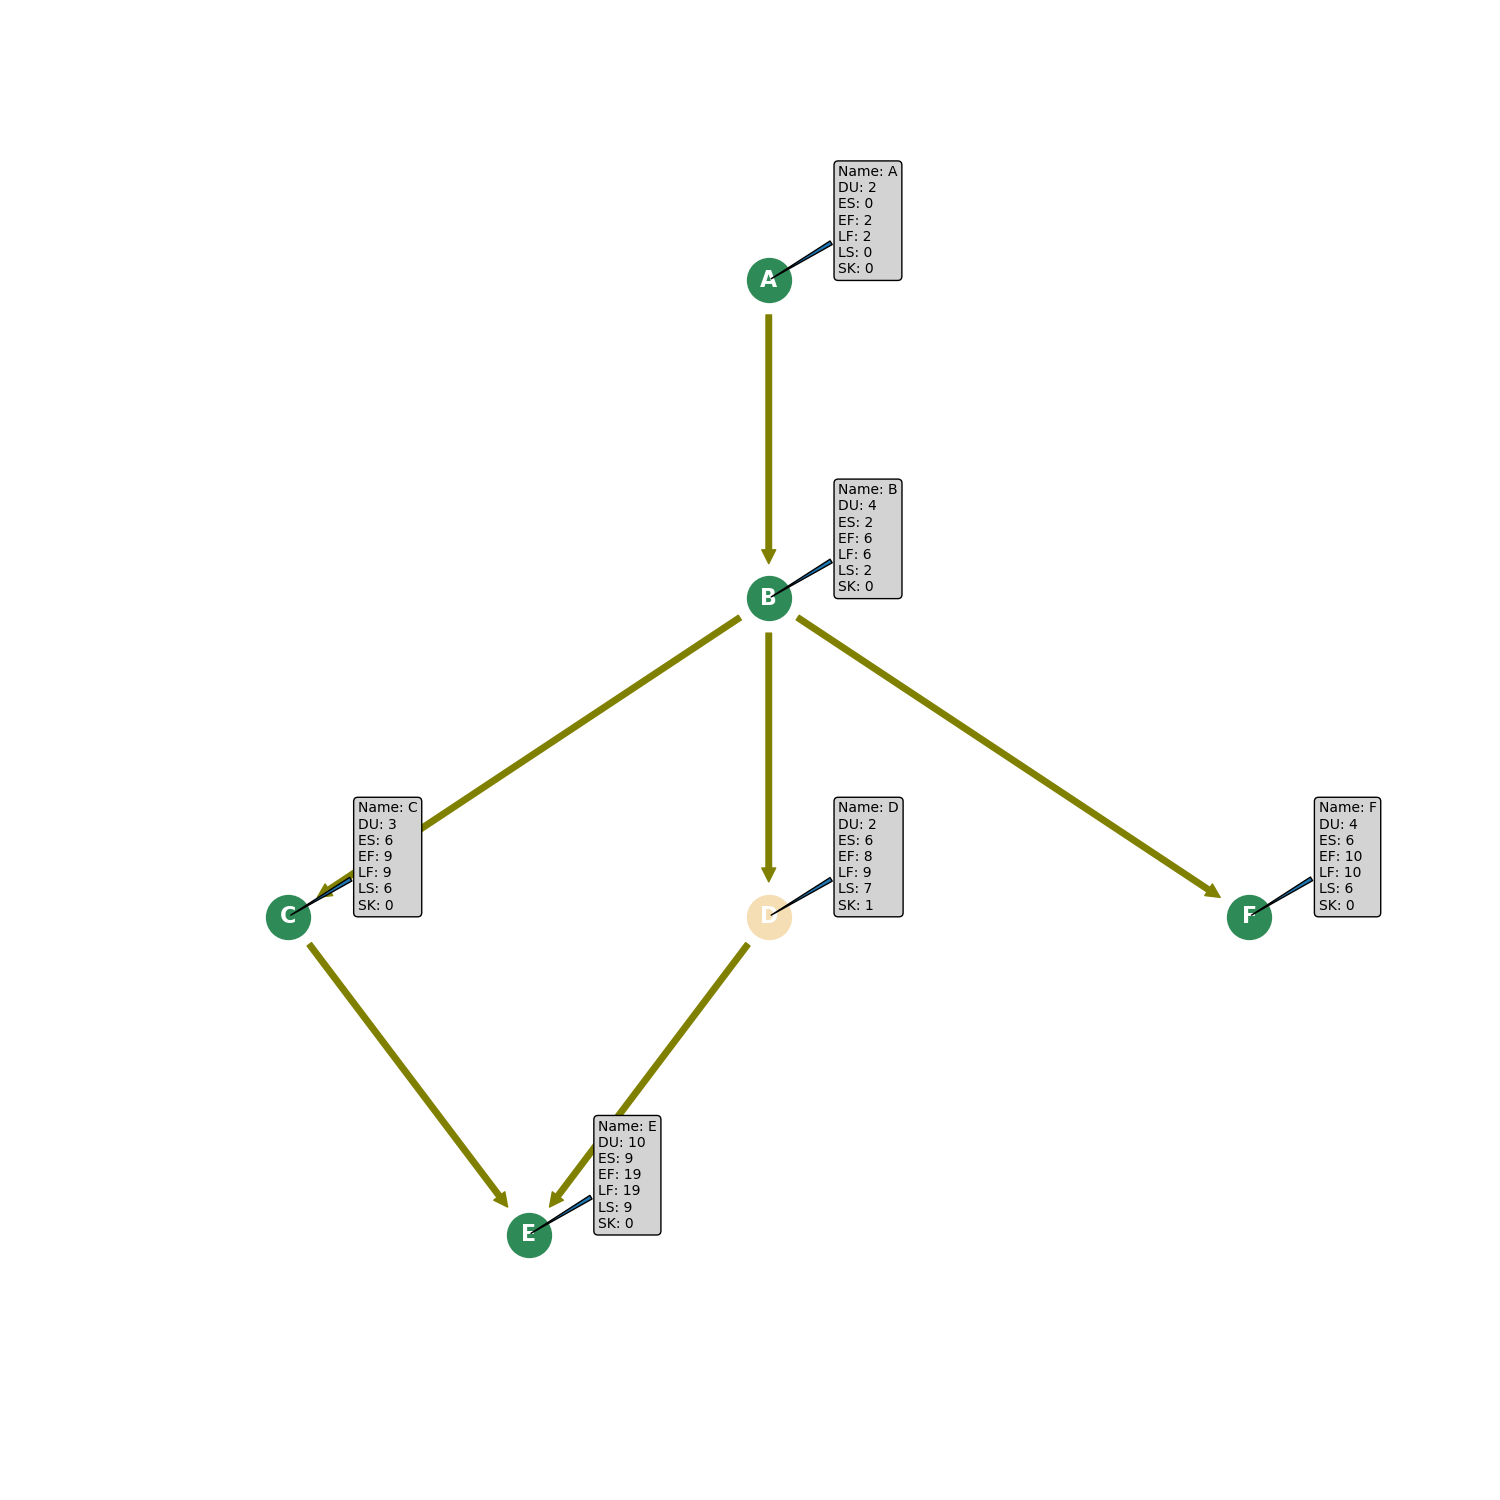
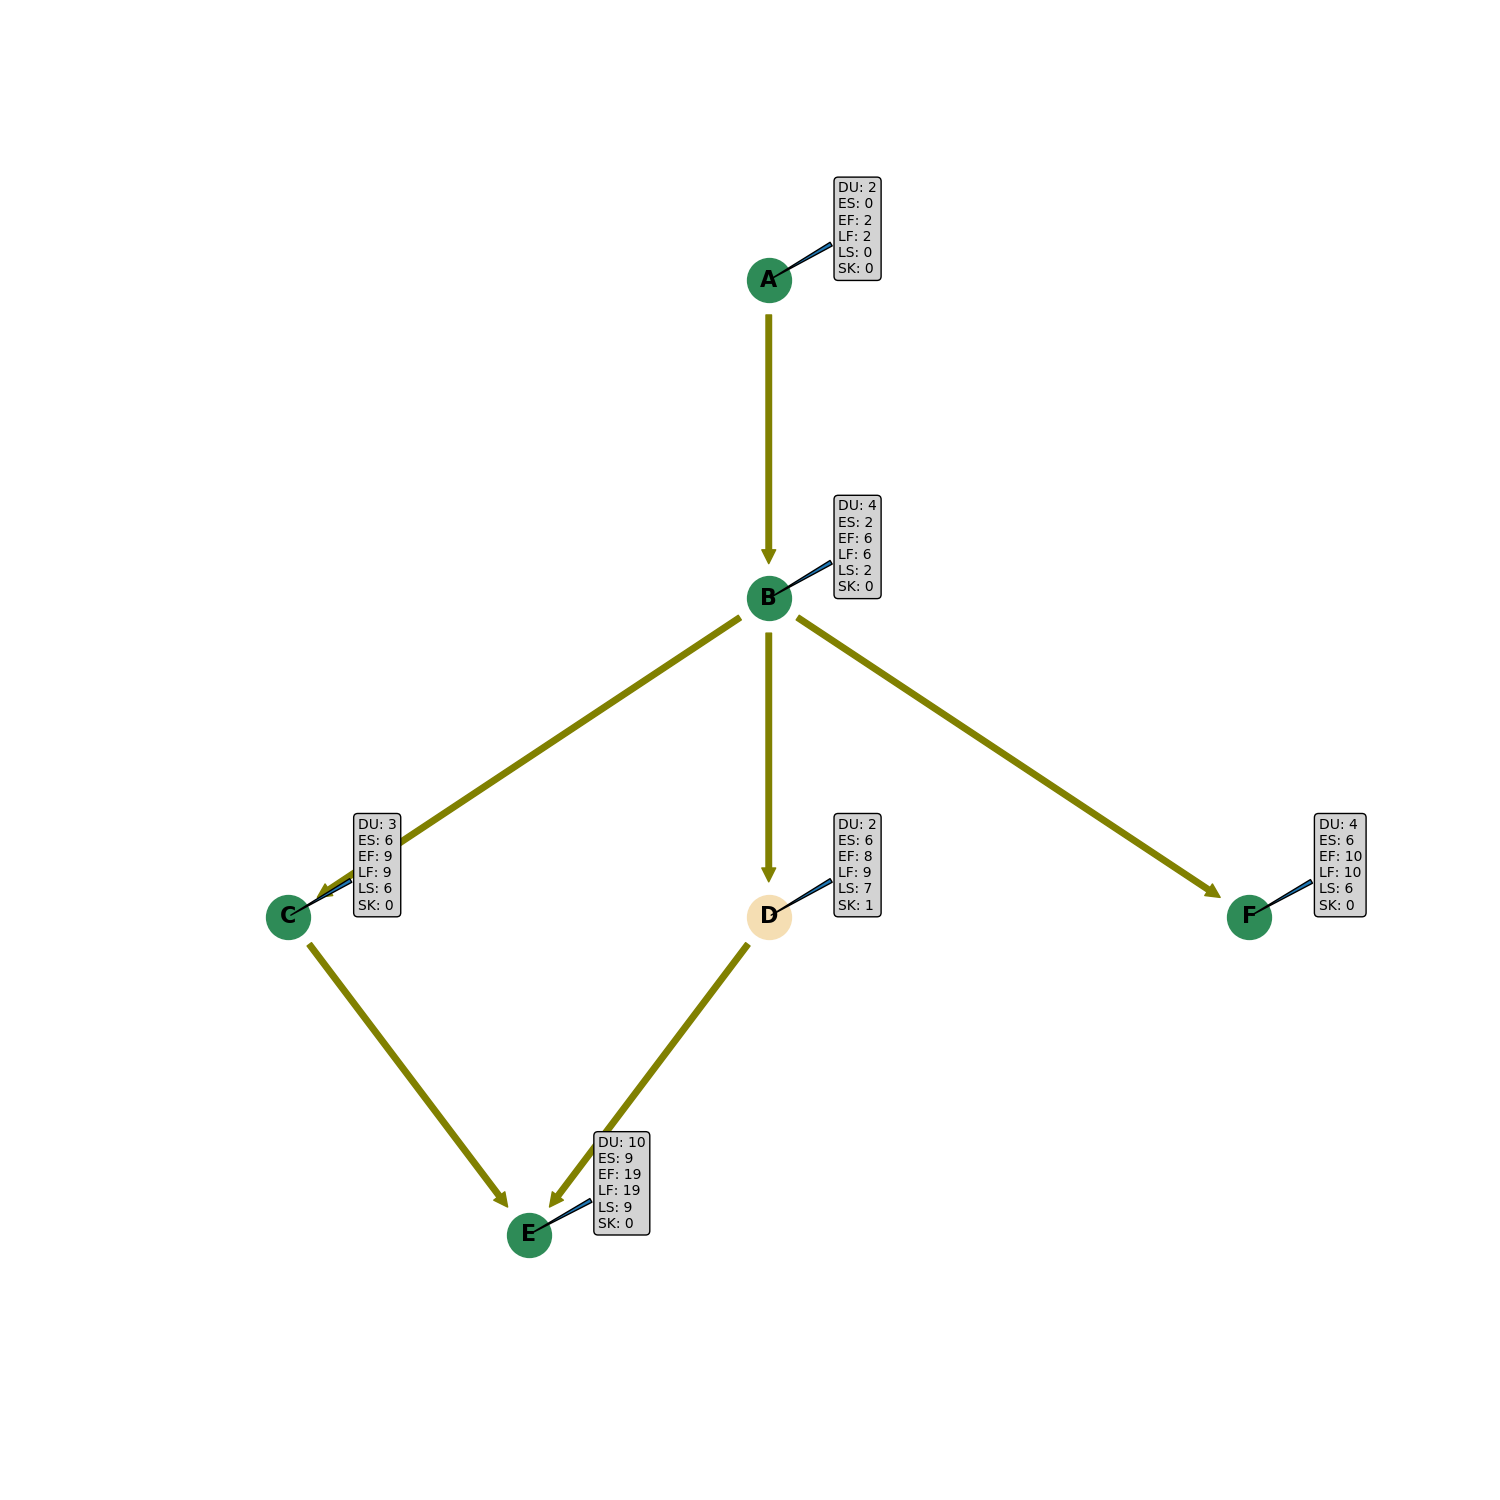
some optimizations

diff --git a/main.py b/main.py
@@ -52,7 +52,7 @@ for q in range(3, 7):
     for i in path:
         print(str(chr(i+65)), end=' ')
     for s in path:
-        #print(str(chr(s+65)), " ", level[s])
+        # print(str(chr(s+65)), " ", level[s])
         # -------------Forward--------------------
         if(data.iloc[s, 1] == "-"):
             atts[s]["ES"] = 0
@@ -101,7 +101,7 @@ for q in range(3, 7):
     nx.set_node_attributes(G2, temp)
     fig, ax = plt.subplots(figsize=(15, 15))
     pos = nx.nx_agraph.graphviz_layout(G2, prog='dot')
-    #nx.draw(G2, pos=pos, ax=ax, with_labels=True, font_weight='bold')
+    # nx.draw(G2, pos=pos, ax=ax, with_labels=True, font_weight='bold')
     nx.draw_networkx_edges(G2, pos, edge_color='olive',
                            width=1, arrowstyle='simple', arrowsize=20, min_source_margin=25, min_target_margin=25)
     crt = []
@@ -116,12 +116,17 @@ for q in range(3, 7):
     nx.draw_networkx_nodes(G2, pos, node_size=1000,
                            node_color='wheat', ax=ax, nodelist=notcrt)
     nx.draw_networkx_labels(G2, pos, ax=ax, font_weight="bold",
-                            font_color="w", font_size=16)
+                            font_color="black", font_size=16)
 
+    def without(d, keys={"Name"}):
+        return {x: d[x] for x in d if x not in keys}
     for node in G2.nodes:
         xy = pos[node]
         node_attr = G2.nodes[node]
-        text = '\n'.join(f'{k}: {v}' for k, v in G2.nodes[node].items())
+        d = G2.nodes[node]
+        d = without(d)
+        text = '\n'.join(f'{k}: {v}' for k,
+                         v in d.items())
         ax.annotate(text, xy=xy, xytext=(50, 5), textcoords="offset points",
                     bbox=dict(boxstyle="round", fc="lightgrey"),
                     arrowprops=dict(arrowstyle="wedge"))
